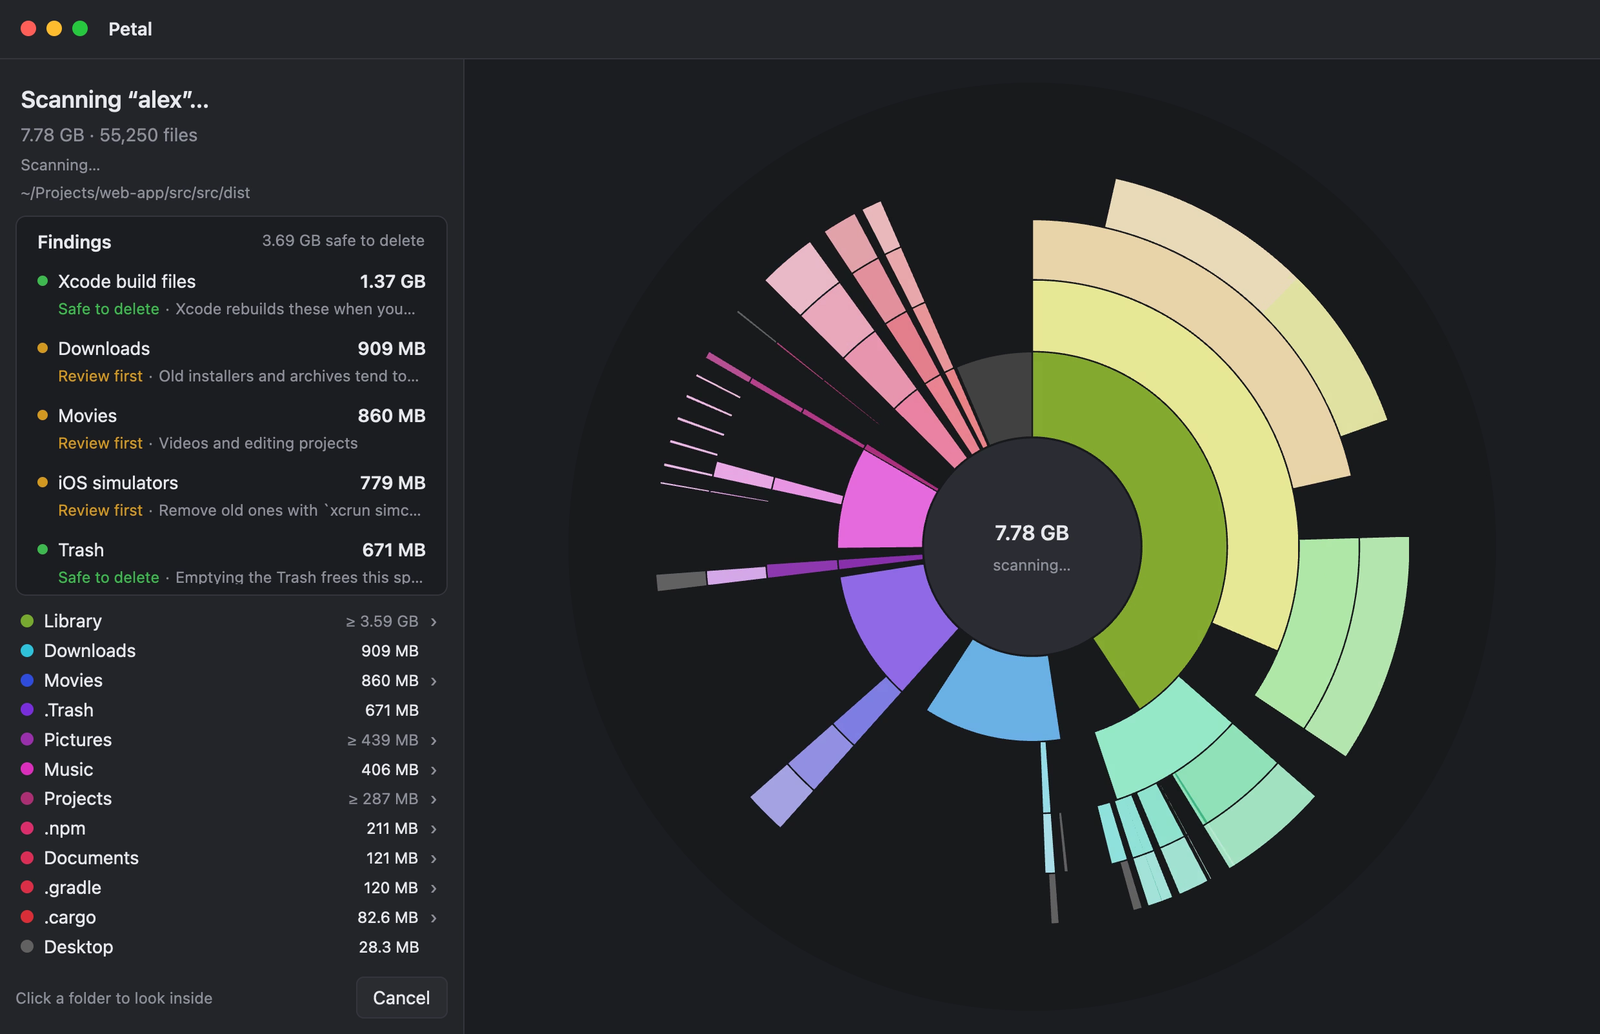
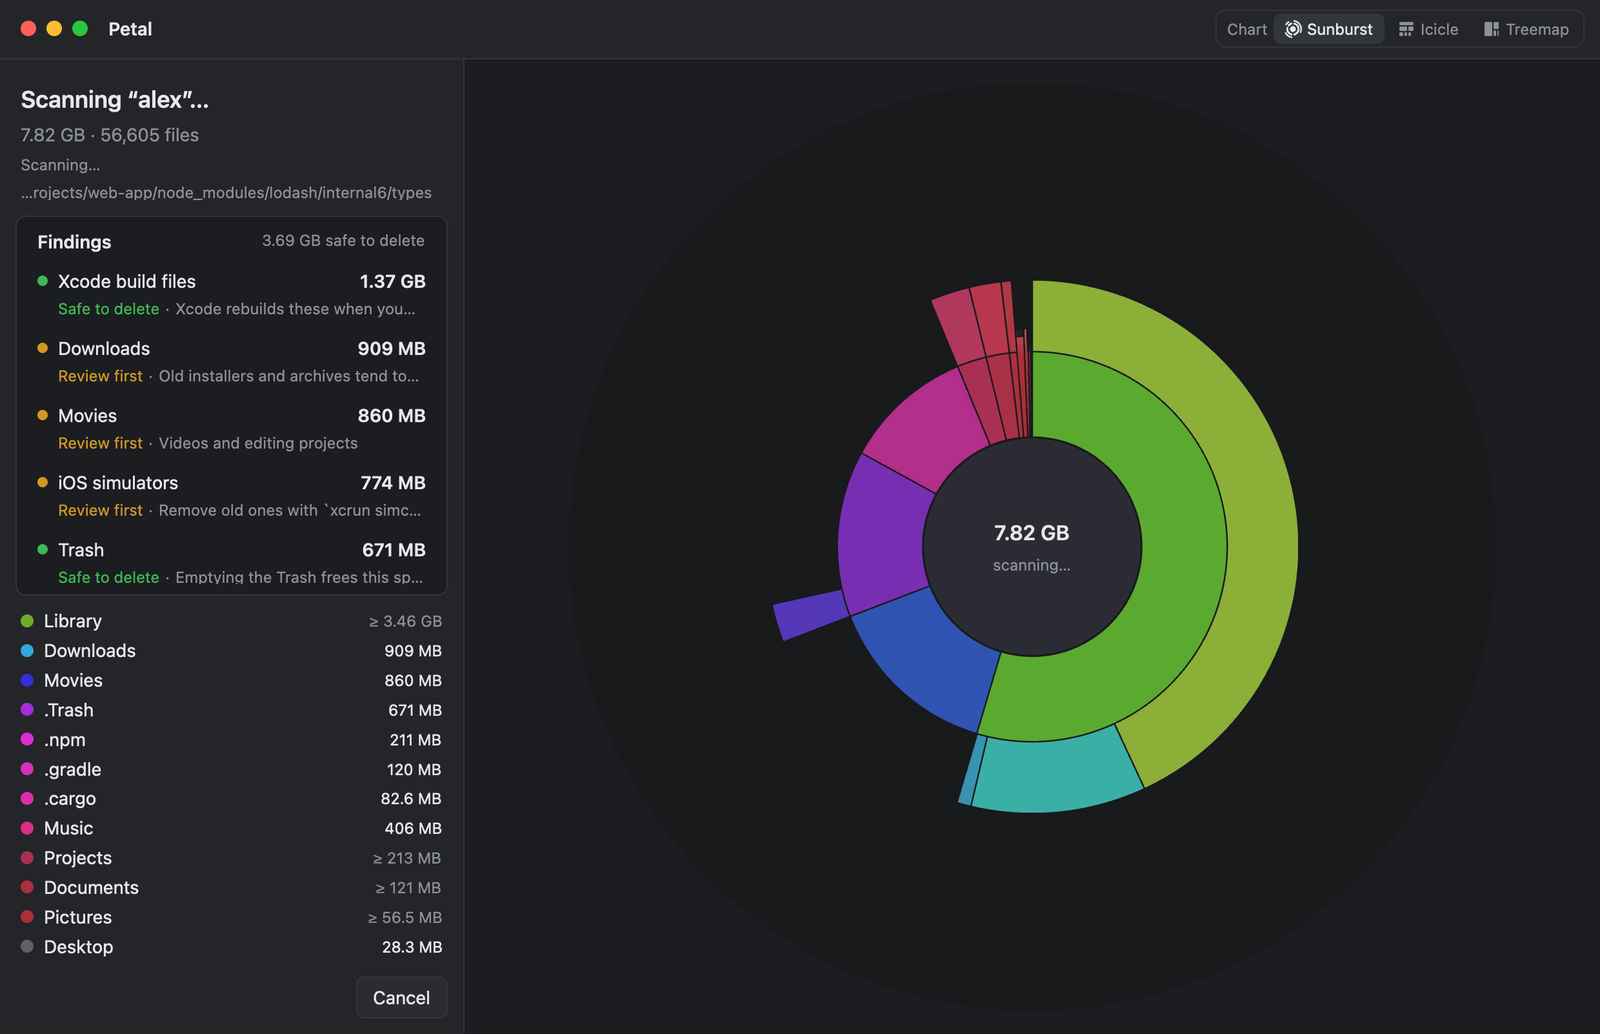
Refresh the README screenshots, and add the icicle and treemap
Retaken from the demo home folder (scripts/make-demo-home.py) with the
new toolbar, plus a fresh slowed-down live scan.

diff --git a/README.md b/README.md
@@ -64,6 +64,8 @@ big folders are safe to clear, and tells you exactly how much deleting them will
 | **Results.** Findings, folder list and the full chart. | **Scanning.** Final folders in colour, the rest still counting. |
 | ![Zoomed into Library, hovering Caches](docs/zoom.png) | ![Collector with two items](docs/collector.png) |
 | **Explore.** Click a slice to zoom in; hover for sizes. | **Collector.** What deleting your selection frees, exactly. |
+| ![The same folder as an icicle](docs/icicle.png) | ![The same folder as a treemap, hovering Library](docs/treemap.png) |
+| **Icicle.** One row per level, falling from the folder, with names on the bars. | **Treemap.** The folder's contents as boxes sized by space; click one to go inside. |
 
 <p align="center"><img src="docs/live-scan.gif" width="720" alt="A live scan, slowed down 8×"><br><sub>A real scan of a sample home folder, slowed down 8×.</sub></p>
 
